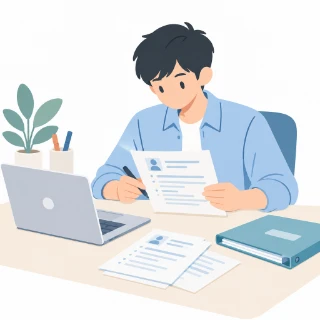
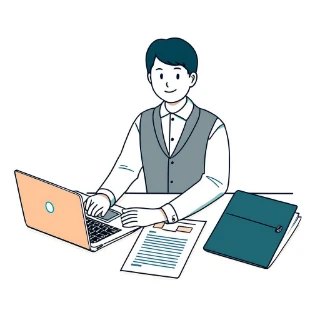
feat(nav): 18 个板块卡片各配一个求职主题小插画，分区插画同源重绘
按老师意见：保留插画思路，全部换成求职者形象，并给每个板块加一个小人物装饰。

- 22 张插画（4 张分区 + 18 张板块）统一由官方通义万相生成，同一套风格描述：
  纯白底、浅蓝/浅青、暖橙点缀、粗线条、简化五官、无文字
- 板块插画 128×128 webp（每张 3–6KB）放在卡片右侧 30px 圆角位，不抢标题
- 分区插画同步换成同源画风的版本（320×320 webp）
- 为放下插画收紧卡片内边距与间距；实测 1280×640 / 1440×900 均无文字截断、无滚动
- 夜间主题对插画降亮度，避免白底图在深色面板上过亮
- build.mjs 同时拷贝 journey 与 blocks 两个资源目录

自检：18 个板块名全部完整显示（无省略号），悬停/当前页/夜间三种状态正常

diff --git a/app-redesign/src/nav-map.ts b/app-redesign/src/nav-map.ts
@@ -16,6 +16,14 @@ const GROUPS: { title: string; hint: string; accent: string; art: string; ids: s
   { title: "工具栏", hint: "协作、心愿与设置，随时可用。", accent: "#5b6478", art: "tools", ids: ["chat", "wish", "settings"] },
 ];
 
+/** 每个板块卡内右下角的小人物插画（与分区插画同一套画风） */
+const ART: Record<string, string> = {
+  home: "home", guide: "guide", profile: "profile", resume: "resume", data: "data",
+  jobs: "jobs", companies: "companies", housing: "housing", dashboard: "dashboard", map: "map", plan: "plan",
+  "study-upload": "study-upload", knowledge: "knowledge", practice: "practice", interview: "interview",
+  chat: "chat", wish: "wish", settings: "settings",
+};
+
 /** 每个板块一句话介绍，鼠标悬停时浮在小卡片上方显示 */
 const DESC: Record<string, string> = {
   home: "今天该做什么：进度、提醒、下一步，都从这里进。",
@@ -108,6 +116,16 @@ export default defineComponent({
                     [
                       h("span", { class: "nav-item-no" }, String(steps.value.get(id) || 0).padStart(2, "0")),
                       h("span", { class: "nav-item-name" }, label(id)),
+                      ART[id]
+                        ? h("img", {
+                            class: "nav-item-art",
+                            src: "/assets/blocks/" + ART[id] + ".webp",
+                            alt: "",
+                            "aria-hidden": "true",
+                            decoding: "async",
+                            loading: "lazy",
+                          })
+                        : null,
                       h("span", { class: "nav-item-go", "aria-hidden": "true" }, "→"),
                     ],
                   ),

diff --git a/app-redesign/src/app.css b/app-redesign/src/app.css
@@ -3226,9 +3226,9 @@ html[data-theme="night"] .guide-tutorial-btn { background: #14233a !important; b
 .nav-item {
   display: flex;
   align-items: center;
-  gap: 10px;
+  gap: 7px;
   min-height: 0;
-  padding: 6px 11px;
+  padding: 5px 8px;
   border: 1px solid #e7eaf2;
   border-radius: 11px;
   background: linear-gradient(180deg, #ffffff, #fdfdfe);
@@ -3271,7 +3271,22 @@ html[data-theme="night"] .guide-tutorial-btn { background: #14233a !important; b
 }
 .nav-map .nav-item.is-current .nav-item-no { background: var(--grp); color: #ffffff; }
 .nav-item-name { font-size: 17px; letter-spacing: .01em; white-space: nowrap; overflow: hidden; text-overflow: ellipsis; }
+.nav-item-art {
+  flex: 0 0 auto;
+  width: 30px;
+  height: 30px;
+  margin-left: auto;
+  border-radius: 8px;
+  object-fit: cover;
+  background: color-mix(in srgb, var(--grp) 6%, #ffffff);
+  border: 1px solid color-mix(in srgb, var(--grp) 12%, #ffffff);
+  opacity: .96;
+  transition: transform .16s ease, opacity .16s ease;
+}
+.nav-map .nav-item:hover .nav-item-art, .nav-map .nav-item:focus-visible .nav-item-art { transform: scale(1.06); opacity: 1; }
+html[data-theme="night"] .nav-item-art { filter: brightness(.86); border-color: #2b3a55; }
 .nav-item-go { margin-left: auto; font-size: 13px; color: var(--grp); opacity: 0; transform: translateX(-4px); transition: opacity .16s ease, transform .16s ease; }
+.nav-item-art + .nav-item-go { margin-left: 6px; }
 .nav-map .nav-item:hover .nav-item-go, .nav-map .nav-item:focus-visible .nav-item-go { opacity: 1; transform: none; }
 /* 矮屏：只压缩间距和字号，流程介绍始终保留 */
 @media (max-height: 700px) {
